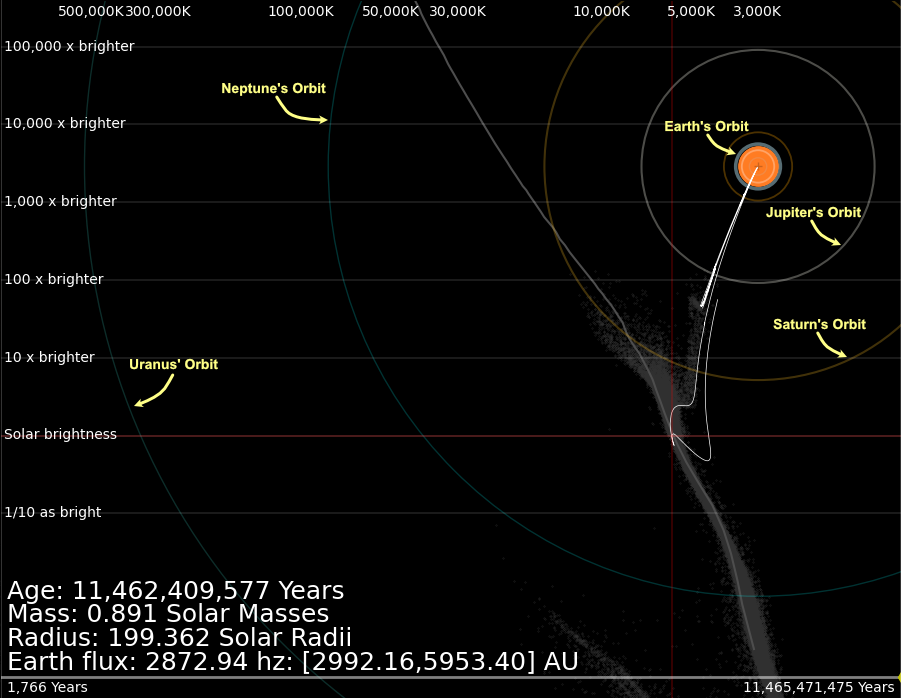
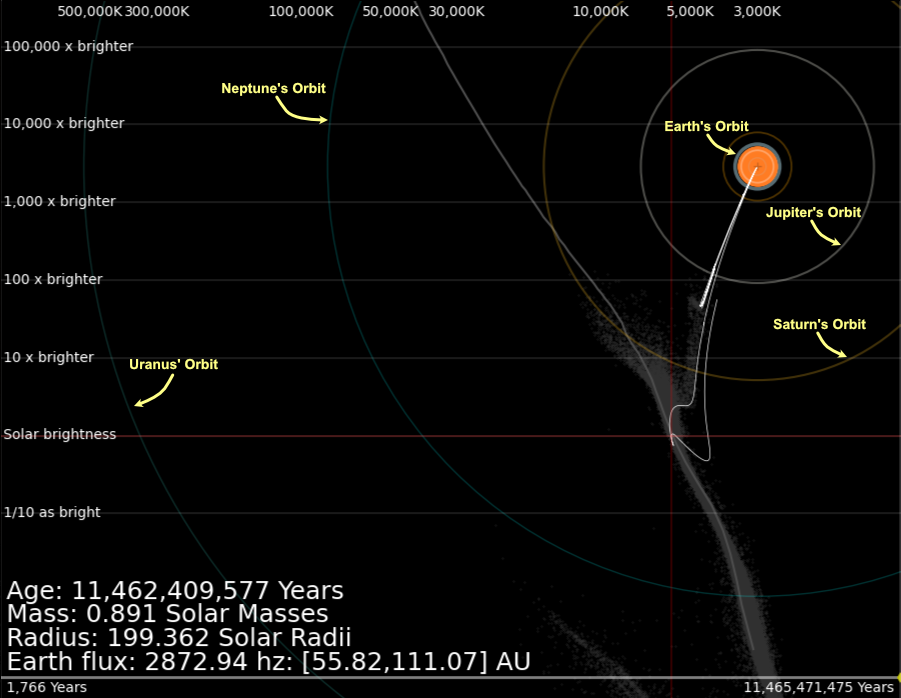
updated images, removed large distance reference circles

diff --git a/star_evolution_animation.py b/star_evolution_animation.py
@@ -179,7 +179,7 @@ class starEvolutionSimulator:
                                facecolors='none', alpha=orbitAlpha[i], zorder=300))
                                
         # plot large scale references
-        refInAu = np.array([100, 200, 500, 1000, 2000, 3000, 4000, 5000])
+        refInAu = np.array([100, 200, 300, 400, 500, 600, 700, 800])
         self.largeReferenceCircles = []
         self.largeReferenceRad = []
         self.largeReferenceText = []
@@ -193,13 +193,13 @@ class starEvolutionSimulator:
             # self.largeReferenceText.append(ax.text(self.star.logTeff.values[0]-self.solarSystemScale*r,
             #                                           self.star.logL.values[0], str(refInAu[i]) + " AU", fontsize=textFontSize, c='c',
             #                                           alpha=0.5, zorder=300))
-        refInLy = np.arange(0.1, 1, 0.1)
-        for i in range(len(refInLy)):
-            r = refInLy[i]*lyInAu*auInSolarRadii
-            self.largeReferenceRad.append(r)
-            self.largeReferenceCircles.append(ax.scatter(self.star.logTeff.values[0], self.star.logL.values[0],
-                  s=(self.solarSystemScale*r)**2, lw=1, ls="-", edgecolors='w',
-                       facecolors='none', alpha=0.5, zorder=300))
+        # refInLy = np.arange(0.1, 1, 0.1)
+        # for i in range(len(refInLy)):
+        #     r = refInLy[i]*lyInAu*auInSolarRadii
+        #     self.largeReferenceRad.append(r)
+        #     self.largeReferenceCircles.append(ax.scatter(self.star.logTeff.values[0], self.star.logL.values[0],
+        #           s=(self.solarSystemScale*r)**2, lw=1, ls="-", edgecolors='w',
+        #                facecolors='none', alpha=0.5, zorder=300))
             # # self.largeReferenceText.append(ax.text(self.star.logTeff.values[0]-self.solarSystemScale*r,
             # #                                           self.star.logL.values[0], str(refInLy[i]) + " ly", fontsize=textFontSize, c='c',
             # #                                           alpha=0.5, zorder=300))
